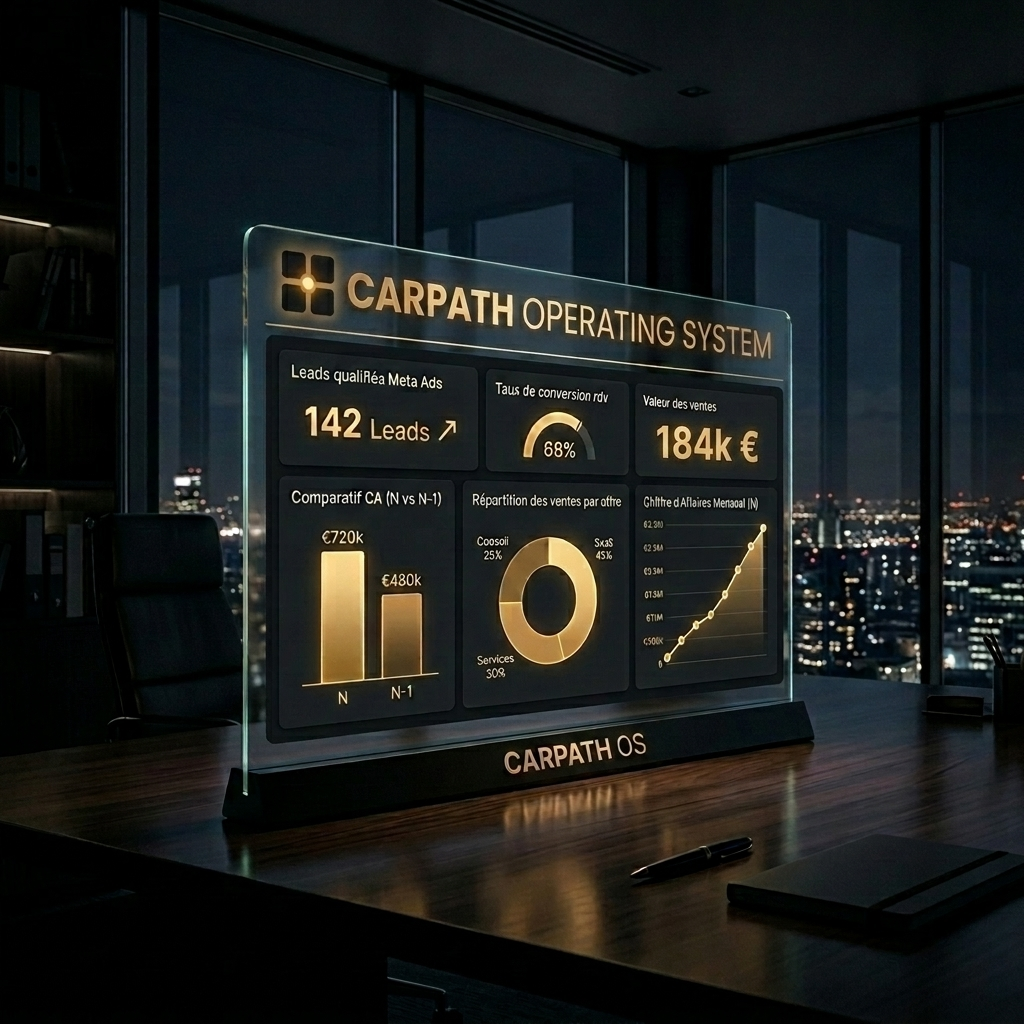
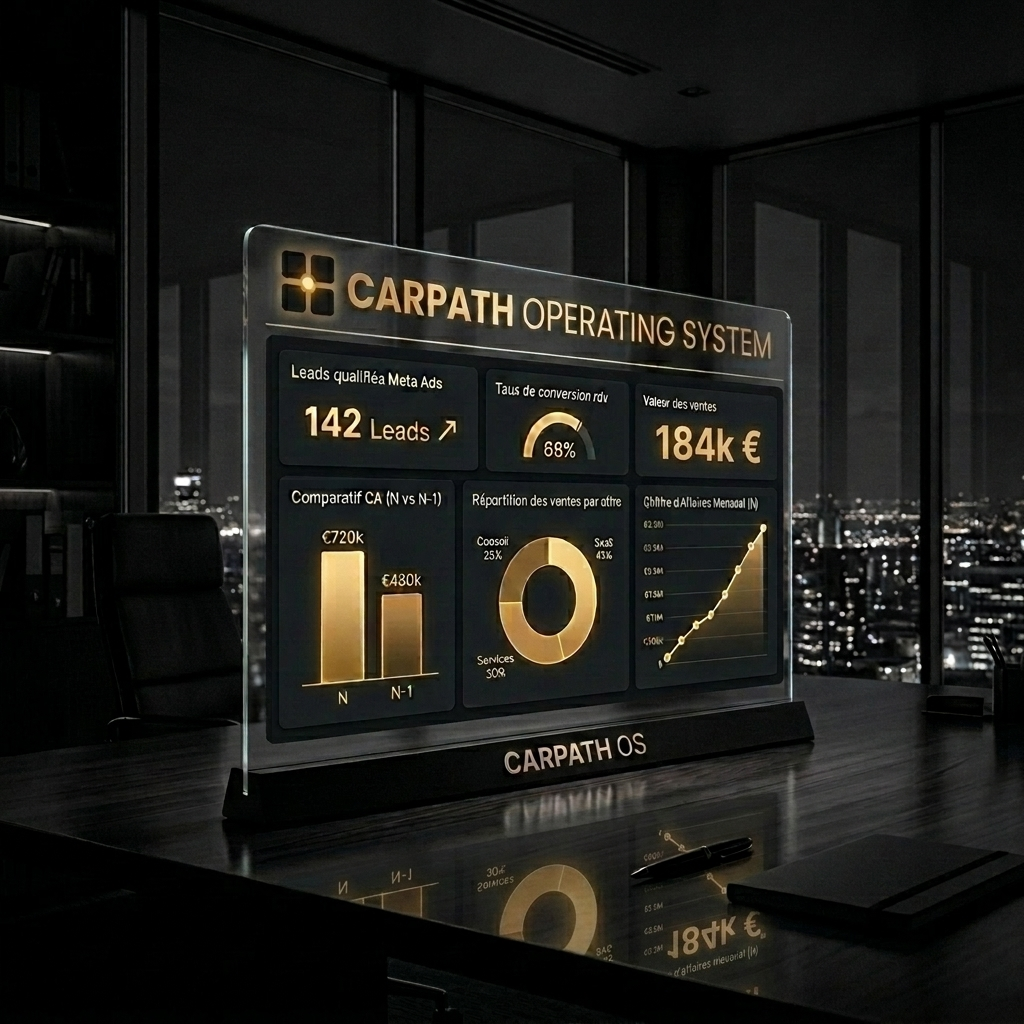
style: update 3D dashboard visual to pure B&W room with selective bronze screen display

diff --git a/src/app/systeme/page.tsx b/src/app/systeme/page.tsx
@@ -123,8 +123,8 @@ export default function SystemePage() {
             >
               <div className="relative w-full max-w-[540px] aspect-[16/10] rounded-2xl overflow-hidden border border-[#C79A3B]/40 shadow-2xl group">
                 <Image
-                  src="/images/dashboard-carpath-184k.png"
-                  alt="Aperçu 3D du tableau de bord CARPATH OS avec 184k €"
+                  src="/images/dashboard-carpath-strict-bw.png"
+                  alt="Aperçu 3D du tableau de bord CARPATH OS en fond N&B strict"
                   fill
                   className="object-cover transition-transform duration-700 group-hover:scale-105"
                 />

diff --git a/src/app/page.tsx b/src/app/page.tsx
@@ -273,8 +273,8 @@ export default function HomePage() {
               transition={{ duration: 0.7 }}
             >
               <Image
-                src="/images/dashboard-carpath-184k.png"
-                alt="Tableau de bord 3D de pilotage CARPATH Operating System avec 184k €"
+                src="/images/dashboard-carpath-strict-bw.png"
+                alt="Tableau de bord 3D de pilotage CARPATH Operating System en fond N&B strict"
                 fill
                 className="object-cover transition-transform duration-700 group-hover:scale-103"
               />
